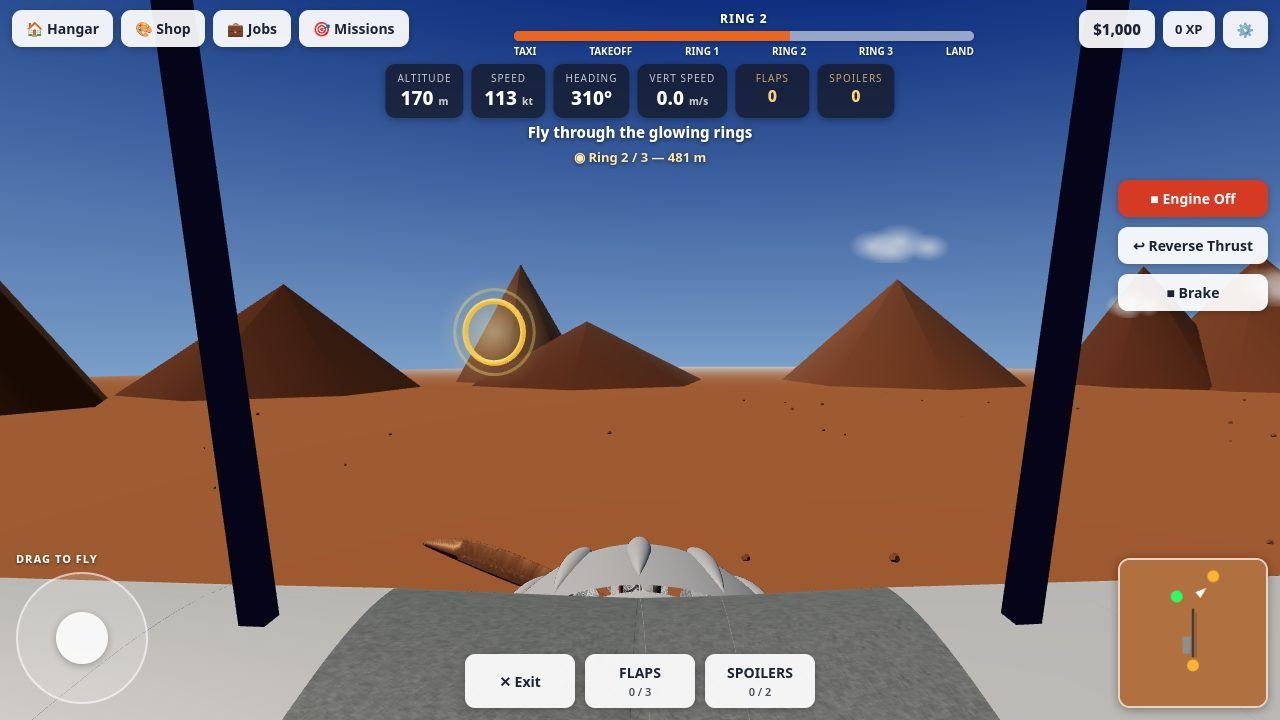
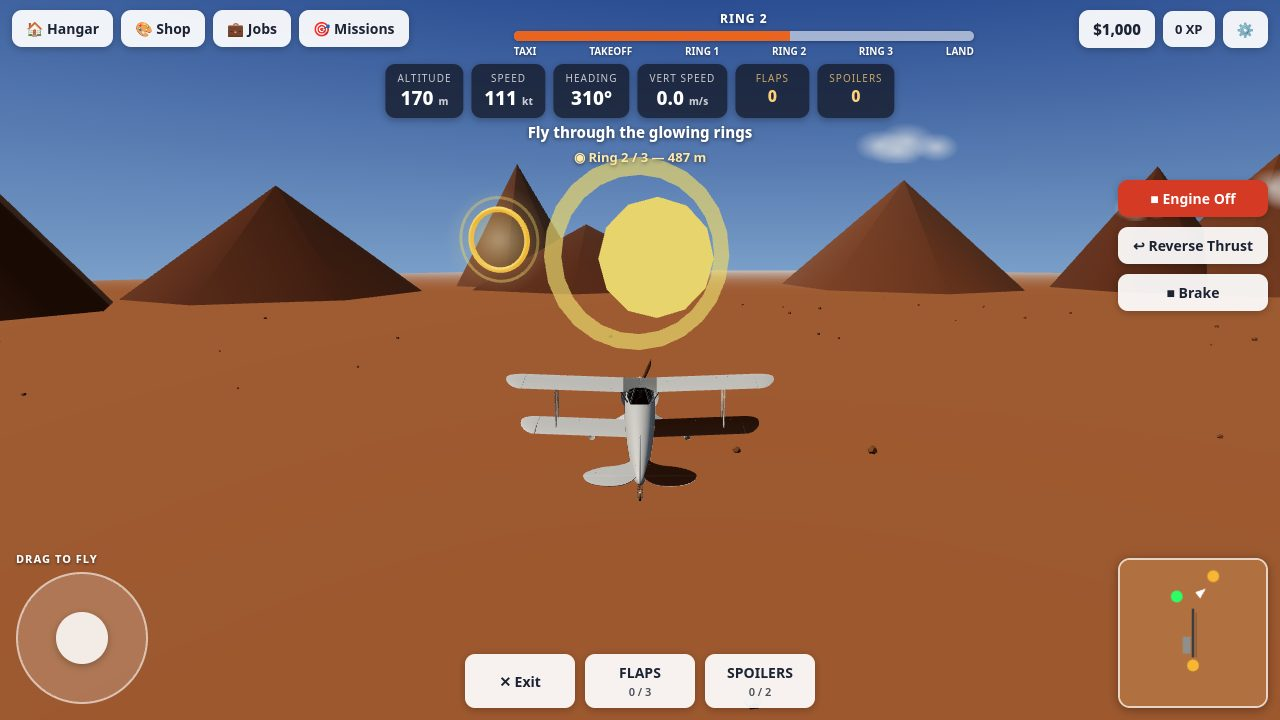
Flight World v1: chase view only — remove cockpit mode, full biplane always in frame

diff --git a/game/src/main.js b/game/src/main.js
@@ -1,5 +1,5 @@
 // Flight World v1 — Senja Runway. Desert airport, vintage biplane (GLB),
-// taxi -> takeoff -> 3 rings -> land -> earn money + XP. Chase + cockpit
+// taxi -> takeoff -> 3 rings -> land -> earn money + XP. Chase view only.
 // cameras, full Flight World UI (Hangar / Shop / Jobs / Missions, Engine /
 // Reverse Thrust / Brake, virtual joystick, Flaps / Spoilers, money + XP),
 // WebAudio synth sounds, keyboard + mouse, static files, no network.
@@ -114,27 +114,8 @@ const guide = new THREE.Group();
   scene.add(guide);
 }
 
-// Cockpit dressing (nose + dash + A-pillars) rides with the camera,
-// visible only in cockpit mode. Sized for the biplane's open cockpit.
-const cockpit = new THREE.Group();
-{
-  const noseMat = new THREE.MeshBasicMaterial({ color: 0x17122b });
-  const noseCone = new THREE.Mesh(new THREE.ConeGeometry(0.22, 1.0, 12), noseMat);
-  noseCone.rotation.x = -Math.PI / 2 - 0.15;
-  noseCone.position.set(0, -1.15, -1.5);
-  cockpit.add(noseCone);
-  const dash = new THREE.Mesh(new THREE.BoxGeometry(1.6, 0.24, 0.4), new THREE.MeshBasicMaterial({ color: 0x17122b }));
-  dash.position.set(0, -1.3, -1.0);
-  cockpit.add(dash);
-  for (const sx of [-1, 1]) {
-    const pillar = new THREE.Mesh(new THREE.BoxGeometry(0.05, 1.4, 0.05), new THREE.MeshBasicMaterial({ color: 0x17122b }));
-    pillar.position.set(sx * 0.85, 0.1, -1.2);
-    pillar.rotation.z = -sx * 0.14;
-    cockpit.add(pillar);
-  }
-  cockpit.visible = false;
-  camera.add(cockpit);
-}
+// Chase view only: the whole biplane stays in frame during play
+// (no cockpit mode — the user wants the full plane visible at all times).
 
 // --- HUD -------------------------------------------------------------------
 const msgEl = $('toast');
@@ -332,8 +313,7 @@ function missionsHtml() {
 function settingsHtml() {
   return `<div class="card"><h3>Sound</h3><p>Engine, wind and alerts are synthesised in your browser.</p>
     <button class="btn" data-act="sound">${econ.muted ? 'Unmute sound' : 'Mute sound'}</button></div>
-  <div class="card"><h3>Camera</h3><p>Chase is the default view. Press C any time to switch to the cockpit.</p>
-    <button class="btn" data-act="camera">Switch camera (C)</button></div>
+  <div class="card"><h3>Camera</h3><p>Chase view from behind-above — the whole biplane stays in frame.</p></div>
   <div class="card"><h3>Progress</h3><p>Money, XP, paints and jobs are saved on this device.</p>
     <button class="btn" data-act="reset">Reset all progress</button></div>`;
 }
@@ -387,8 +367,6 @@ $('panel-body').addEventListener('click', (e) => {
     audio.setMuted(econ.muted);
     saveEcon();
     openPanel('Settings');
-  } else if (act === 'camera') {
-    toggleCamera();
   } else if (act === 'reset') {
     if (!btn.dataset.confirm) {
       btn.dataset.confirm = '1';
@@ -439,13 +417,6 @@ function cycleSpoilers() {
   audio.click();
   updateHUD();
 }
-function toggleCamera() {
-  game.camMode = game.camMode === 'chase' ? 'cockpit' : 'chase';
-  cockpit.visible = game.camMode === 'cockpit';
-  toast(game.camMode === 'cockpit' ? 'Cockpit view' : 'Chase view');
-  audio.click();
-}
-
 // --- Flow: title / flight / end --------------------------------------------
 function showTitle() {
   game.state = 'title';
@@ -568,17 +539,6 @@ function updateCamera(dt) {
     camera.lookAt(camTarget);
     return;
   }
-  if (game.camMode === 'cockpit') {
-    // Open cockpit: eye just above the fuselage, looking over the nose.
-    const eye = flight.pos.clone().addScaledVector(fwd, 2.5);
-    eye.y += 1.6;
-    const look = flight.pos.clone().addScaledVector(fwd, 50);
-    look.y += 0.2 - flight.pitch * 0.4;
-    if (camera.position.distanceTo(eye) > 5) camera.position.copy(eye);
-    else camera.position.lerp(eye, 1 - Math.pow(0.0001, dt));
-    camera.lookAt(look);
-    return;
-  }
   // Chase: directly behind-above, the whole biplane + both wings in frame.
   const target = flight.pos.clone().addScaledVector(fwd, -13);
   target.y += 5.5;
@@ -591,7 +551,7 @@ function updateCamera(dt) {
 
 // --- Shot API (for ?shot= states) -------------------------------------------
 const shotApi = {
-  setCam(mode) { game.camMode = mode; cockpit.visible = mode === 'cockpit'; },
+  setCam(mode) { game.camMode = 'chase'; }, // chase only — full plane always in frame
   flyAt(x, y, z, heading, speed, throttle, ringsPassed) {
     game.state = 'flying';
     document.body.classList.add('flying');
@@ -642,7 +602,6 @@ function animate() {
   if (input.takePressed('spoilers') && game.state === 'flying') cycleSpoilers();
   if (input.takePressed('reverse') && game.state === 'flying') { flight.reverse = !flight.reverse; updateHUD(); }
   if (input.takePressed('gear') && game.state === 'flying') { flight.gearDown = !flight.gearDown; toast(flight.gearDown ? 'Gear down' : 'Gear up (fixed on the B-1 — stays down)'); flight.gearDown = true; updateHUD(); }
-  if (input.takePressed('camera')) toggleCamera();
   if (input.takePressed('start') && game.state === 'title') startFlight();
   if (input.takePressed('close') && game.panelOpen) closePanel();
 

diff --git a/game/src/shots.js b/game/src/shots.js
@@ -14,9 +14,9 @@ export function applyShot(api, name) {
     return 'flying';
   }
   if (name === 'play') {
-    // Cockpit view on the way to ring 2: the ring ahead, the desert below,
-    // the minimap and the systems chips lit.
-    api.setCam('cockpit');
+    // Chase view on the way to ring 2: the FULL biplane in frame, the ring
+    // ahead, the desert below, the minimap and the systems chips lit.
+    api.setCam('chase');
     api.flyAt(200, 170, -1000, -50, 55, 0.65, [true, false, false]);
     return 'flying';
   }

diff --git a/game/src/input.js b/game/src/input.js
@@ -12,7 +12,7 @@ export function createInput(canvas) {
     KeyD: 'rollRight', ArrowRight: 'rollRight',
     Space: 'brake',
     KeyF: 'flaps', KeyG: 'spoilers', KeyR: 'reverse', KeyL: 'gear',
-    KeyE: 'engine', KeyC: 'camera', Enter: 'start', Escape: 'close',
+    KeyE: 'engine', Enter: 'start', Escape: 'close',
   };
 
   function onKeyDown(e) {

diff --git a/README.md b/README.md
@@ -4,7 +4,7 @@
 [![rank](https://make.fun/badge/best-flight-game-20261126-0057/Fattih210494/best-flight-game-20261126-v1/rank.svg)](https://make.fun/bounty/best-flight-game-20261126-0057/leaderboard?utm_source=github&utm_medium=readme&utm_campaign=best-flight-game-20261126-0057)
 [![reward](https://make.fun/badge/best-flight-game-20261126-0057/Fattih210494/best-flight-game-20261126-v1/reward.svg)](https://make.fun/bounty/best-flight-game-20261126-0057?utm_source=github&utm_medium=readme&utm_campaign=best-flight-game-20261126-0057)
 
-Flight World — Senja Runway. Start the engine of the Senja Air B-1 vintage biplane, taxi out of the desert airport, take off from runway 36, fly through 3 glowing waypoint rings over the desert and the mountains, then bring her home for a smooth landing and earn money and XP. Chase view from directly behind-above (or cockpit with C), a real airport with a marked runway, taxiways, apron, terminal, hangar and ATC tower, and a rich Flight World HUD: flight progress bar, altitude, speed, heading, vertical speed, flaps, spoilers, engine, reverse thrust, brake, a live minimap and a mouse-draggable virtual joystick. Hangar, Shop (livery paints), Jobs (paid routes) and Missions all work, and your money and XP persist between sessions. Keyboard + mouse, WebAudio synth sounds only, static files, no network, no multiplayer. Built with Three.js (vendored) and a detailed biplane model (GLB, propeller spins in code).
+Flight World — Senja Runway. Start the engine of the Senja Air B-1 vintage biplane, taxi out of the desert airport, take off from runway 36, fly through 3 glowing waypoint rings over the desert and the mountains, then bring her home for a smooth landing and earn money and XP. Chase view from directly behind-above — the full biplane stays in frame during play — a real airport with a marked runway, taxiways, apron, terminal, hangar and ATC tower, and a rich Flight World HUD: flight progress bar, altitude, speed, heading, vertical speed, flaps, spoilers, engine, reverse thrust, brake, a live minimap and a mouse-draggable virtual joystick. Hangar, Shop (livery paints), Jobs (paid routes) and Missions all work, and your money and XP persist between sessions. Keyboard + mouse, WebAudio synth sounds only, static files, no network, no multiplayer. Built with Three.js (vendored) and a detailed biplane model (GLB, propeller spins in code).
 
 ## Run it
 
@@ -25,7 +25,6 @@ python3 -m http.server 8000 --directory game
 | G | Spoilers 0–2 |
 | R | Reverse thrust |
 | Space | Brake (hold) |
-| C | Chase / cockpit camera |
 | Mouse | Drag the virtual joystick (bottom-left) |
 
 Every on-screen button works: Hangar, Shop, Jobs, Missions, Settings, Engine, Reverse Thrust, Brake, Flaps, Spoilers, Exit. Money and XP are saved in localStorage.
